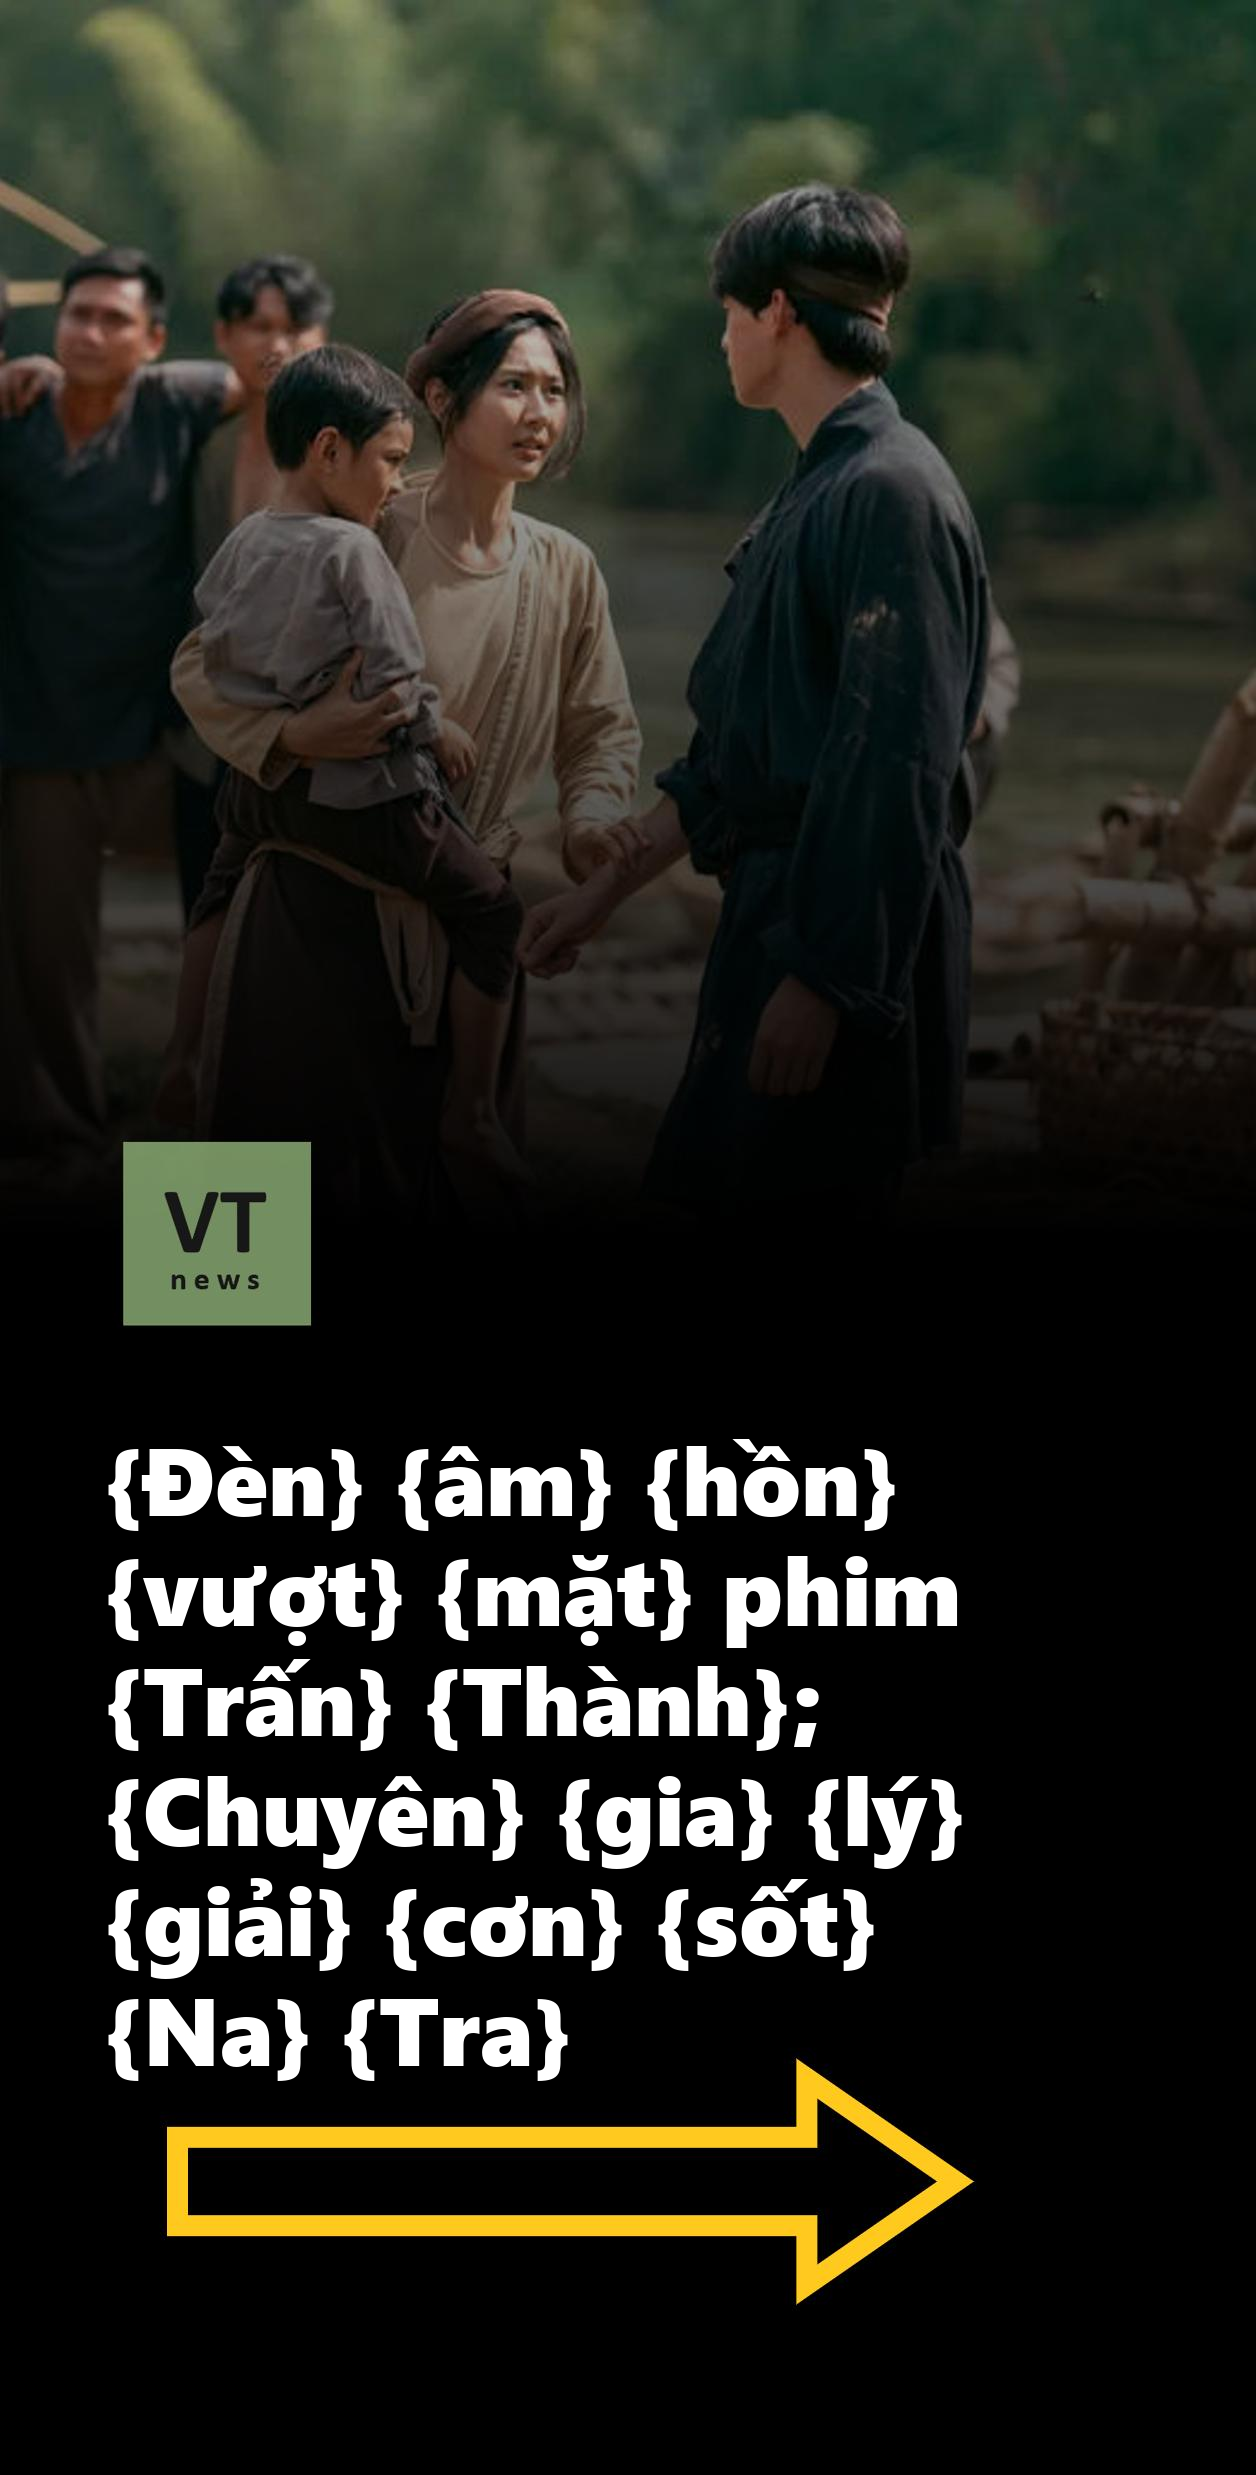
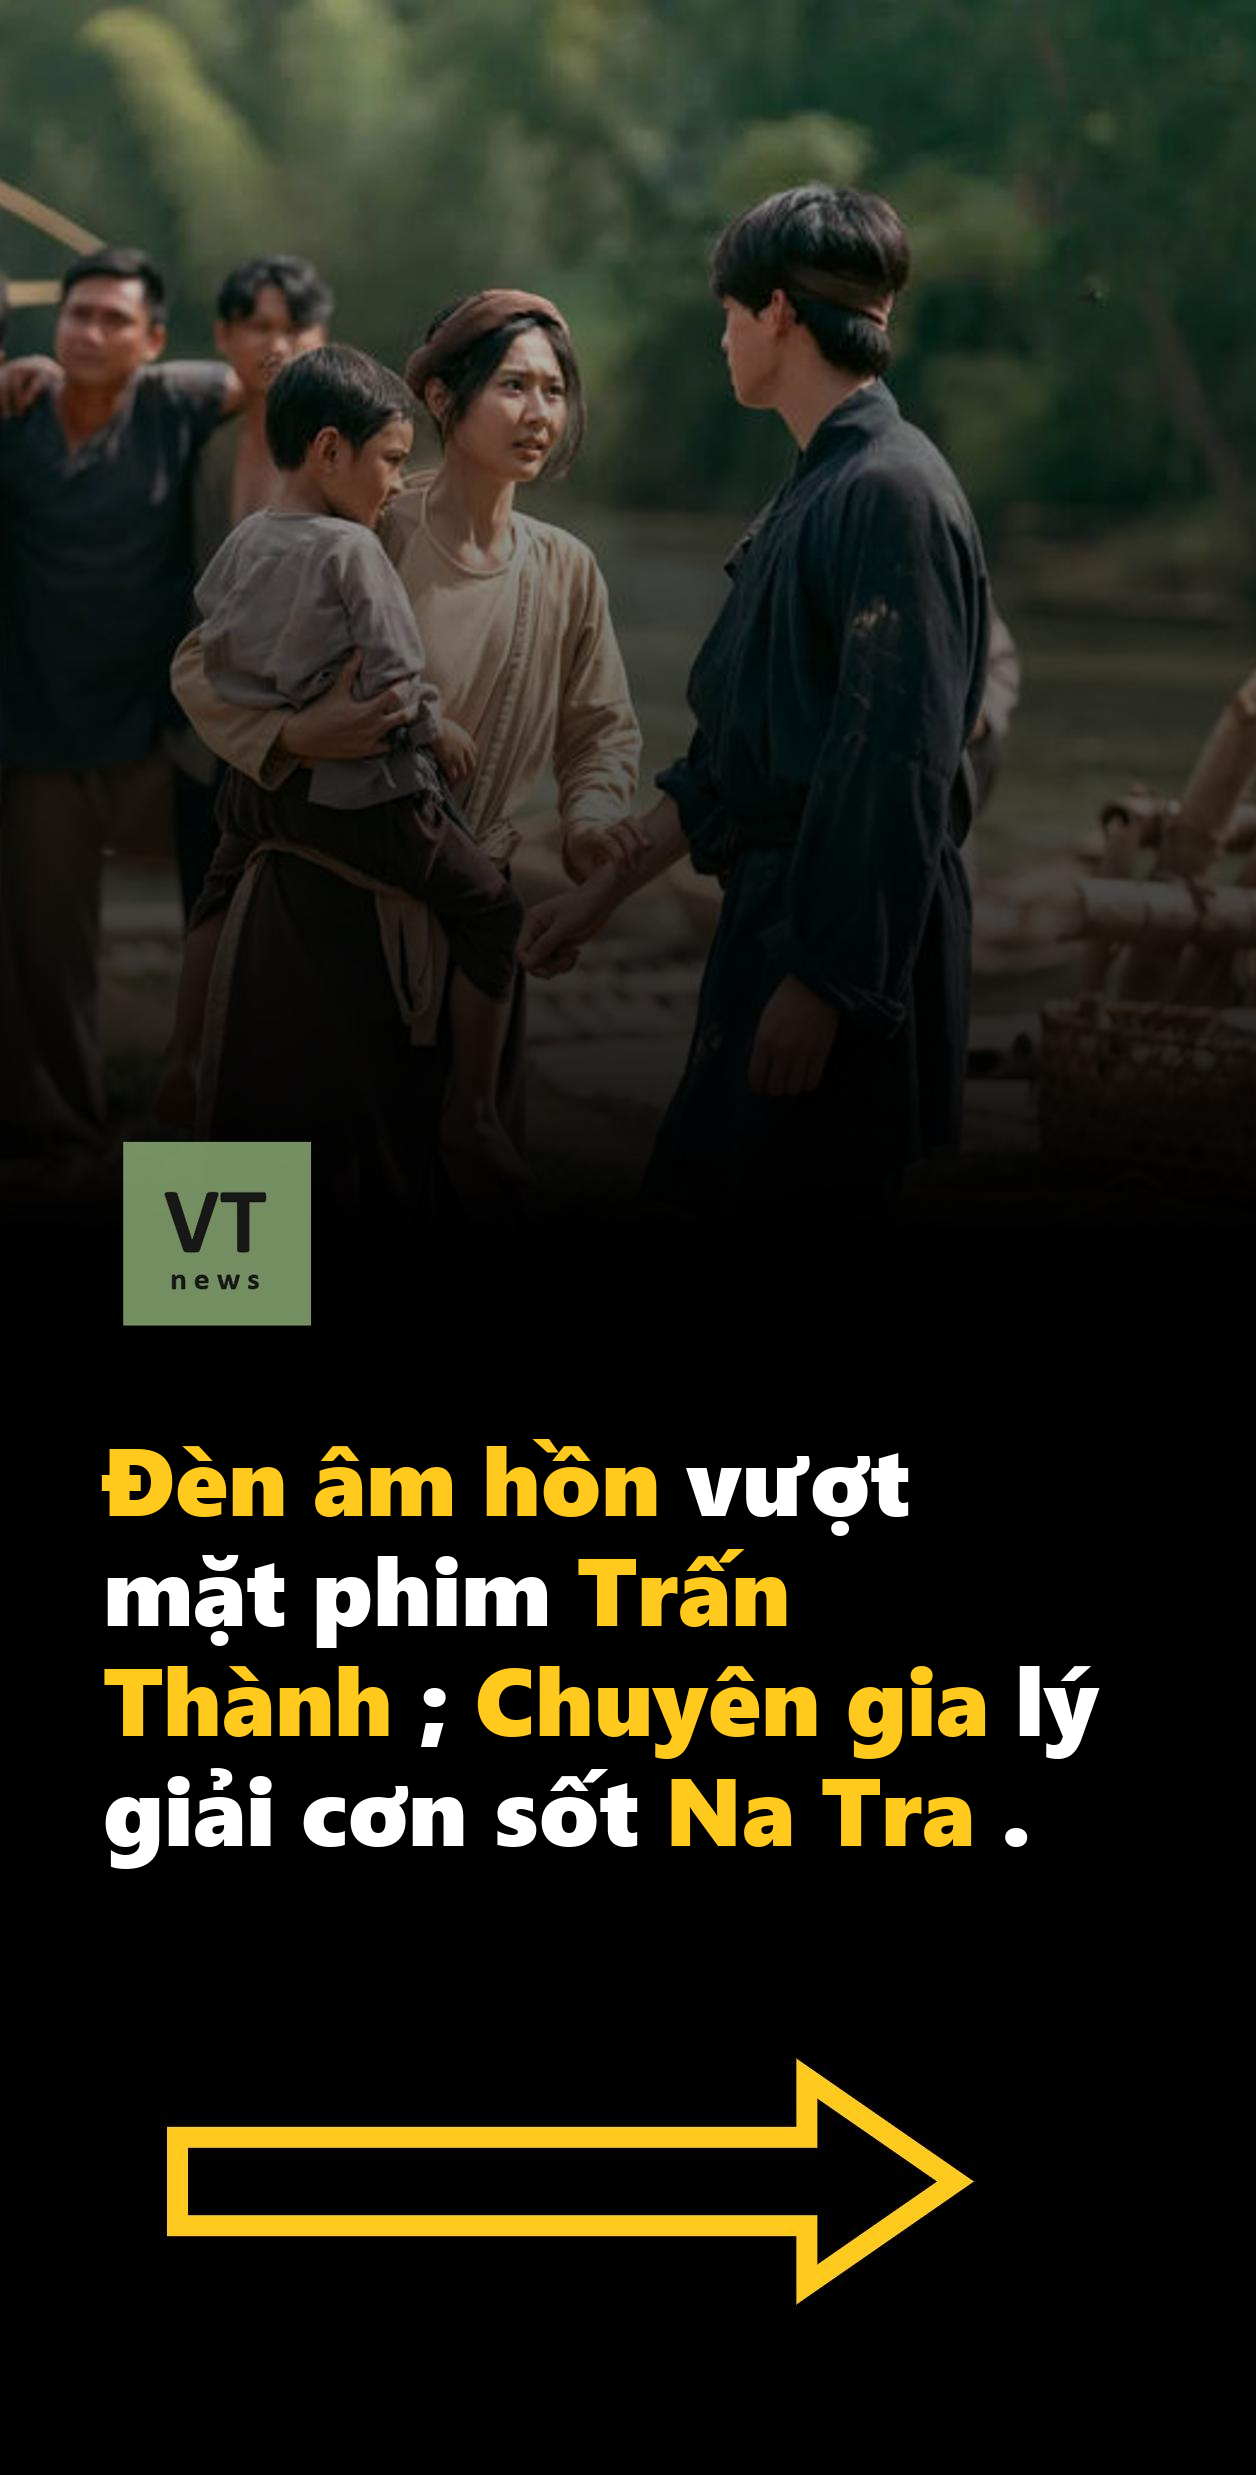
fix

Changed region(s): [[0.0621, 0.56, 0.8694, 0.84]]

diff --git a/main.py b/main.py
@@ -72,13 +72,45 @@ def add_text_to_image(image_path, output_path, text, text_position=(50, 50),
         if max_width is None:
             max_width = image.width - text_position[0] * 2  # Đặt giới hạn theo ảnh
 
-        # Chia văn bản thành các dòng vừa với max_width
-        wrapped_text = textwrap.wrap(text, width=22)  # Số ký tự mỗi dòng (tùy chỉnh)
-
         x, y = text_position
-        for line in wrapped_text:
-            draw.text((x, y), line, fill=text_color, font=font)
-            y += font_size + line_spacing  # Di chuyển xuống dòng mới
+
+        # Tách văn bản thành các phần, giữ nguyên các cụm từ trong {}
+        parts = []
+        start = 0
+        while True:
+            # Tìm vị trí của dấu {
+            brace_start = text.find("{", start)
+            if brace_start == -1:
+                # Nếu không còn dấu {, thêm phần còn lại của văn bản
+                parts.append((text[start:], text_color))
+                break
+            # Thêm phần trước dấu {
+            parts.append((text[start:brace_start], text_color))
+            # Tìm vị trí của dấu }
+            brace_end = text.find("}", brace_start)
+            if brace_end == -1:
+                # Nếu không có dấu }, coi toàn bộ phần còn lại là cụm từ
+                parts.append((text[brace_start:], "#FFC91D"))
+                break
+            # Thêm cụm từ trong {}
+            parts.append((text[brace_start + 1:brace_end], "#FFC91D"))
+            start = brace_end + 1
+
+        # Xử lý từng phần
+        for part, color in parts:
+            words = part.split()
+            for word in words:
+                # Kiểm tra xem thêm từ này có vượt quá max_width không
+                test_line = word
+                test_width = draw.textlength(test_line, font=font)
+                if x + test_width > max_width:
+                    # Nếu vượt quá, xuống dòng mới
+                    x = text_position[0]
+                    y += font_size + line_spacing
+
+                # Vẽ từ hiện tại với màu tương ứng
+                draw.text((x, y), word, fill=color, font=font)
+                x += test_width + draw.textlength(" ", font=font)  # Thêm khoảng cách giữa các từ
 
         image.save(output_path)
         return output_path
@@ -87,11 +119,12 @@ def add_text_to_image(image_path, output_path, text, text_position=(50, 50),
         return None
 
 
+
 def get_ai_formatted_text(text):
     """Lấy text đã được format từ AI."""
     try:
         client = genai.Client(api_key="AIzaSyDaQhCfd8t8ZrZ029sTHElzylZavE5SWPM")
-        prompt = f"Bạn là một chuyên gia tóm tắt 20 năm kinh nghiệm. Hãy nhấn mạnh các từ ngữ trong nội dùng sau đây  '{text}' từ nào cần nhấn mạnh chỉ cần để là {{từ ngữ cần nhấn mạnh}}. Chỉ được nhấn mạnh tối đa 20% số chữ trong câu (bắt buộc phải 20%). Hãy xuất ra kết quả luôn ( không có các dẫu * hay đóng ngoặc gì hết) "
+        prompt = f"Bạn là một chuyên gia xử lý ngôn ngữ. Nhiệm vụ của bạn là chọn một vài từ quan trọng trong đoạn văn và đặt chúng trong {{ }} để nhấn mạnh. Hãy ưu tiên danh từ riêng (tên người, địa danh, công ty), số liệu quan trọng (ngày tháng, năm, giá tiền) và từ khóa chính giúp làm rõ nội dung. Đảm bảo giữ nguyên nội dung, ngữ pháp và chỉ sử dụng {{ }} để đánh dấu mà không thêm bất kỳ ký hiệu nào khác (lưu lý kĩ điều này) . Hãy áp dụng quy tắc này cho đoạn văn sau và xuất ra kết quả: '{text}'."
         response = client.models.generate_content(
             model="gemini-2.0-flash",
             contents=prompt
@@ -162,8 +195,8 @@ try:
                     text=datetime.now().strftime("%d/%m/%Y"), 
                     text_position=(108, 1960),
                     text_color="#FFC91D",
-                    font_path="CENTURY.TTF",
-                    font_size=95,
+                    font_path="seguibl.ttf",
+                    font_size=105,
                     max_width=1100,
                     line_spacing=15
                 )
